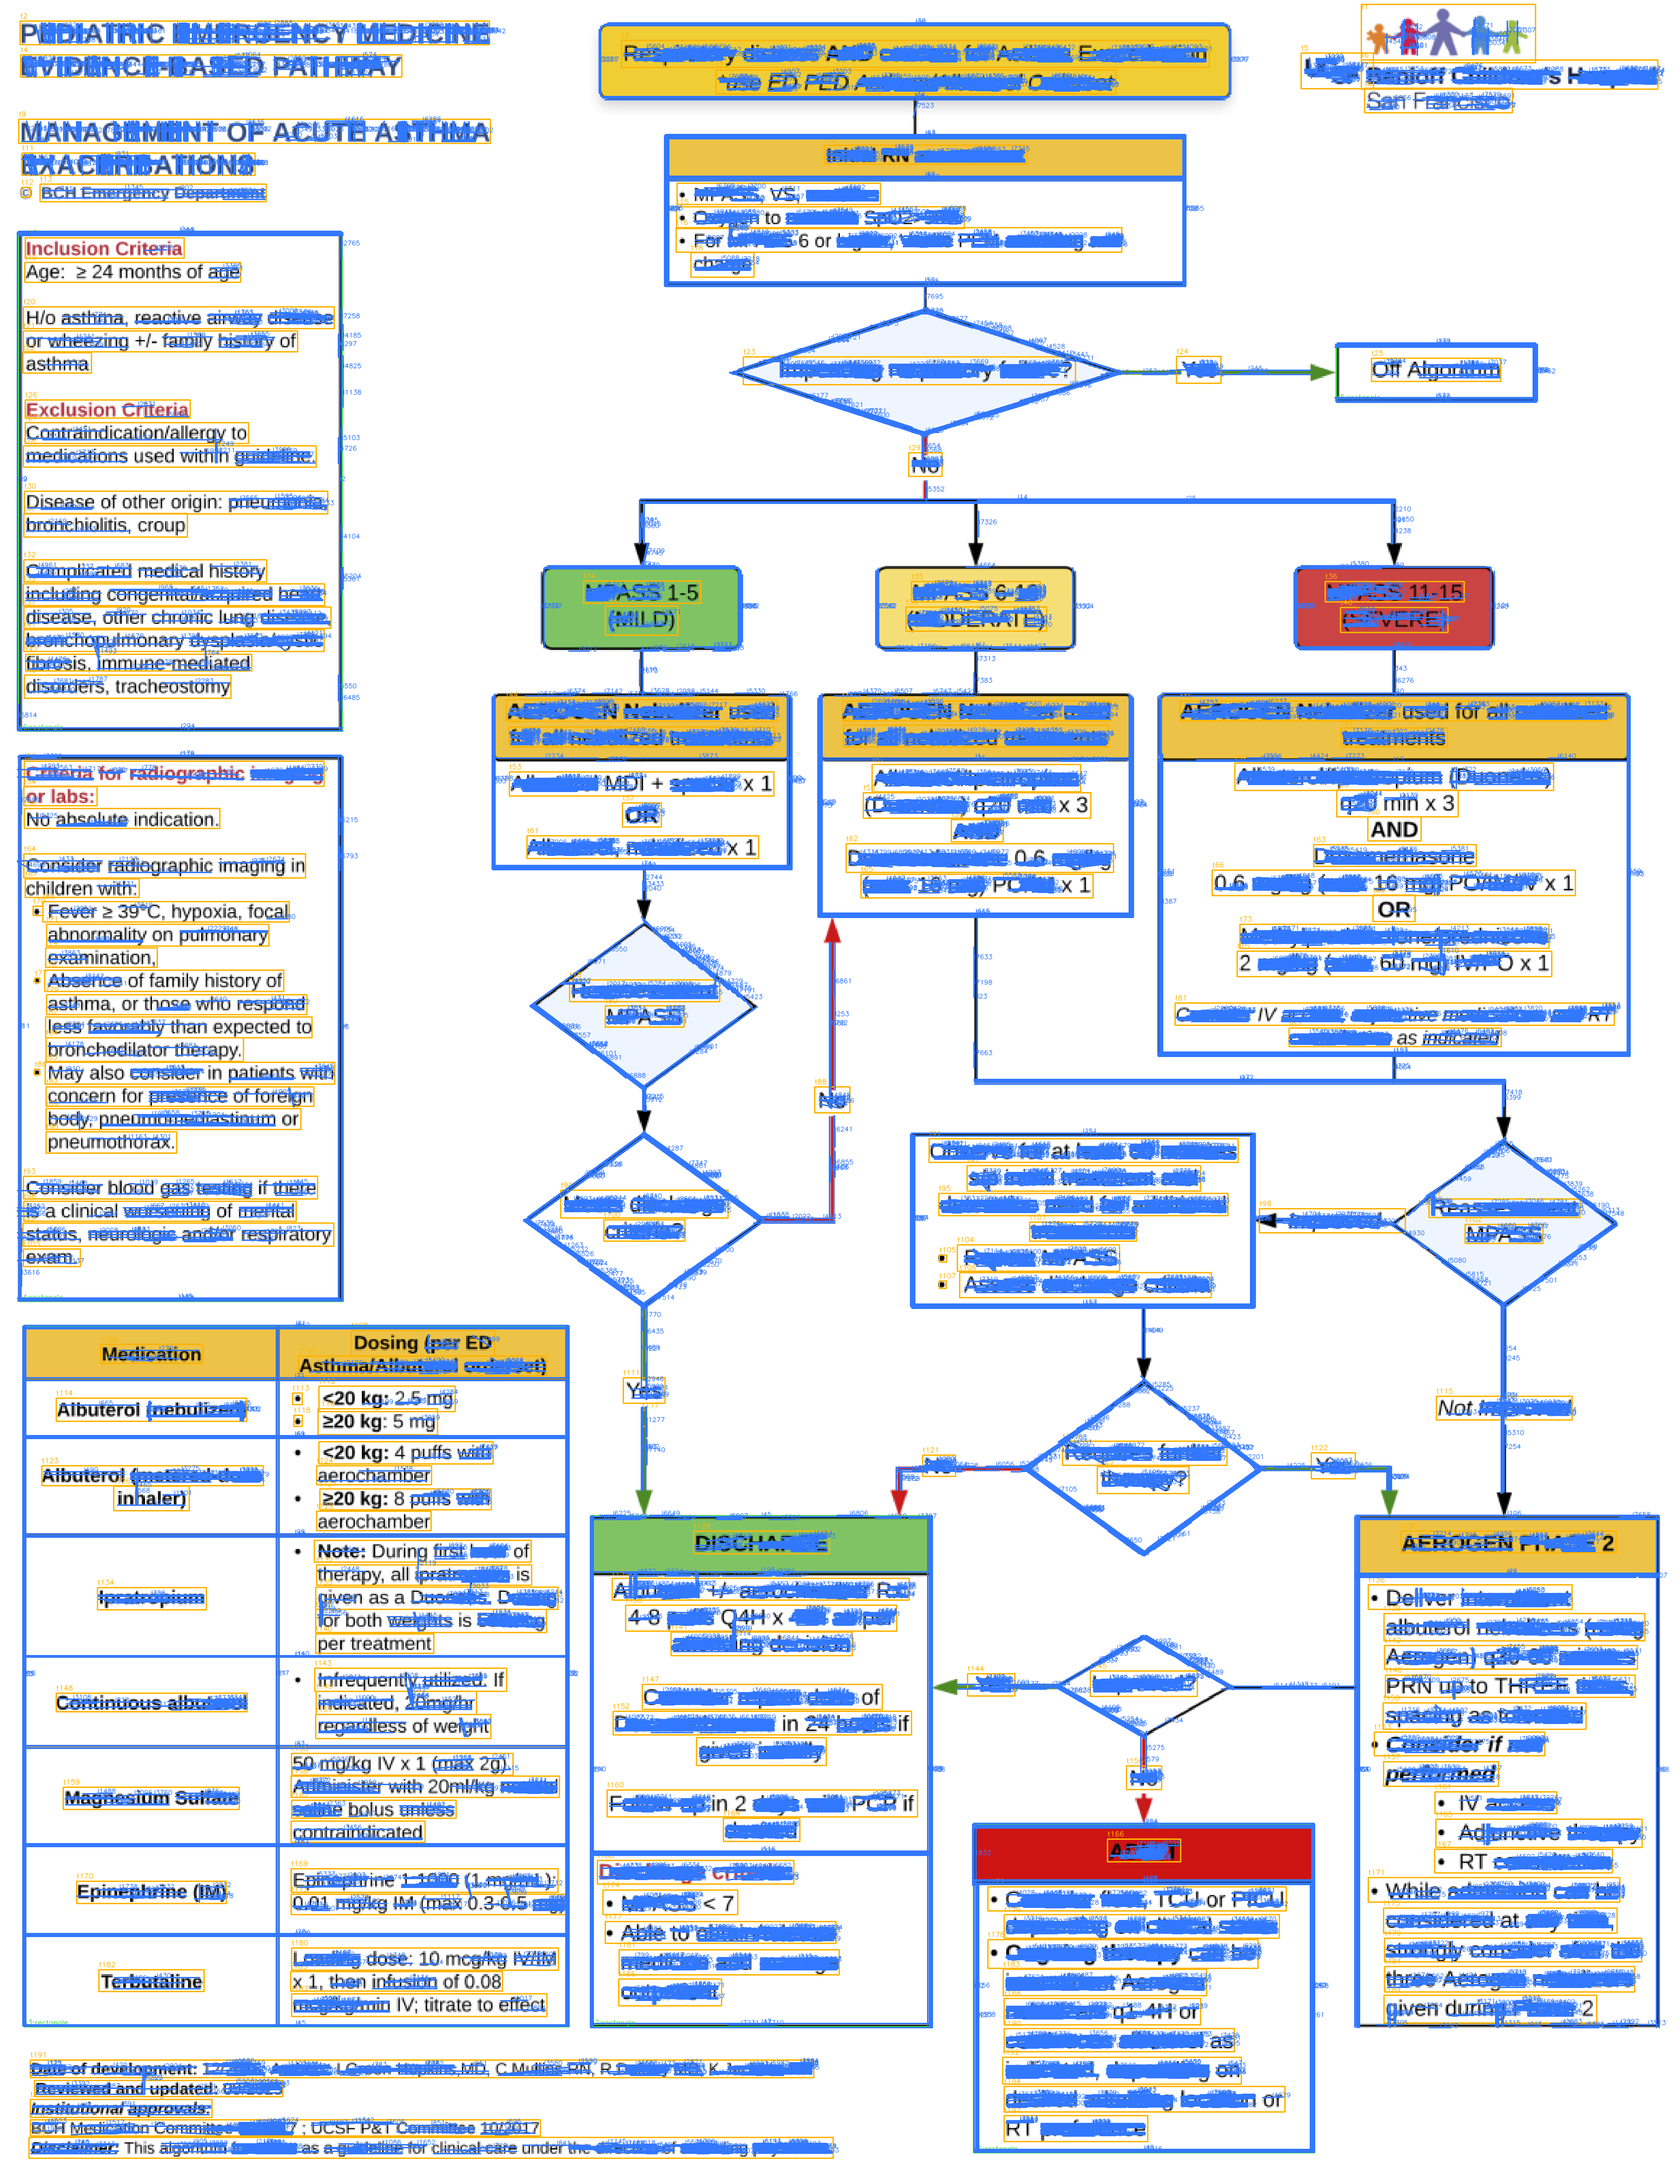
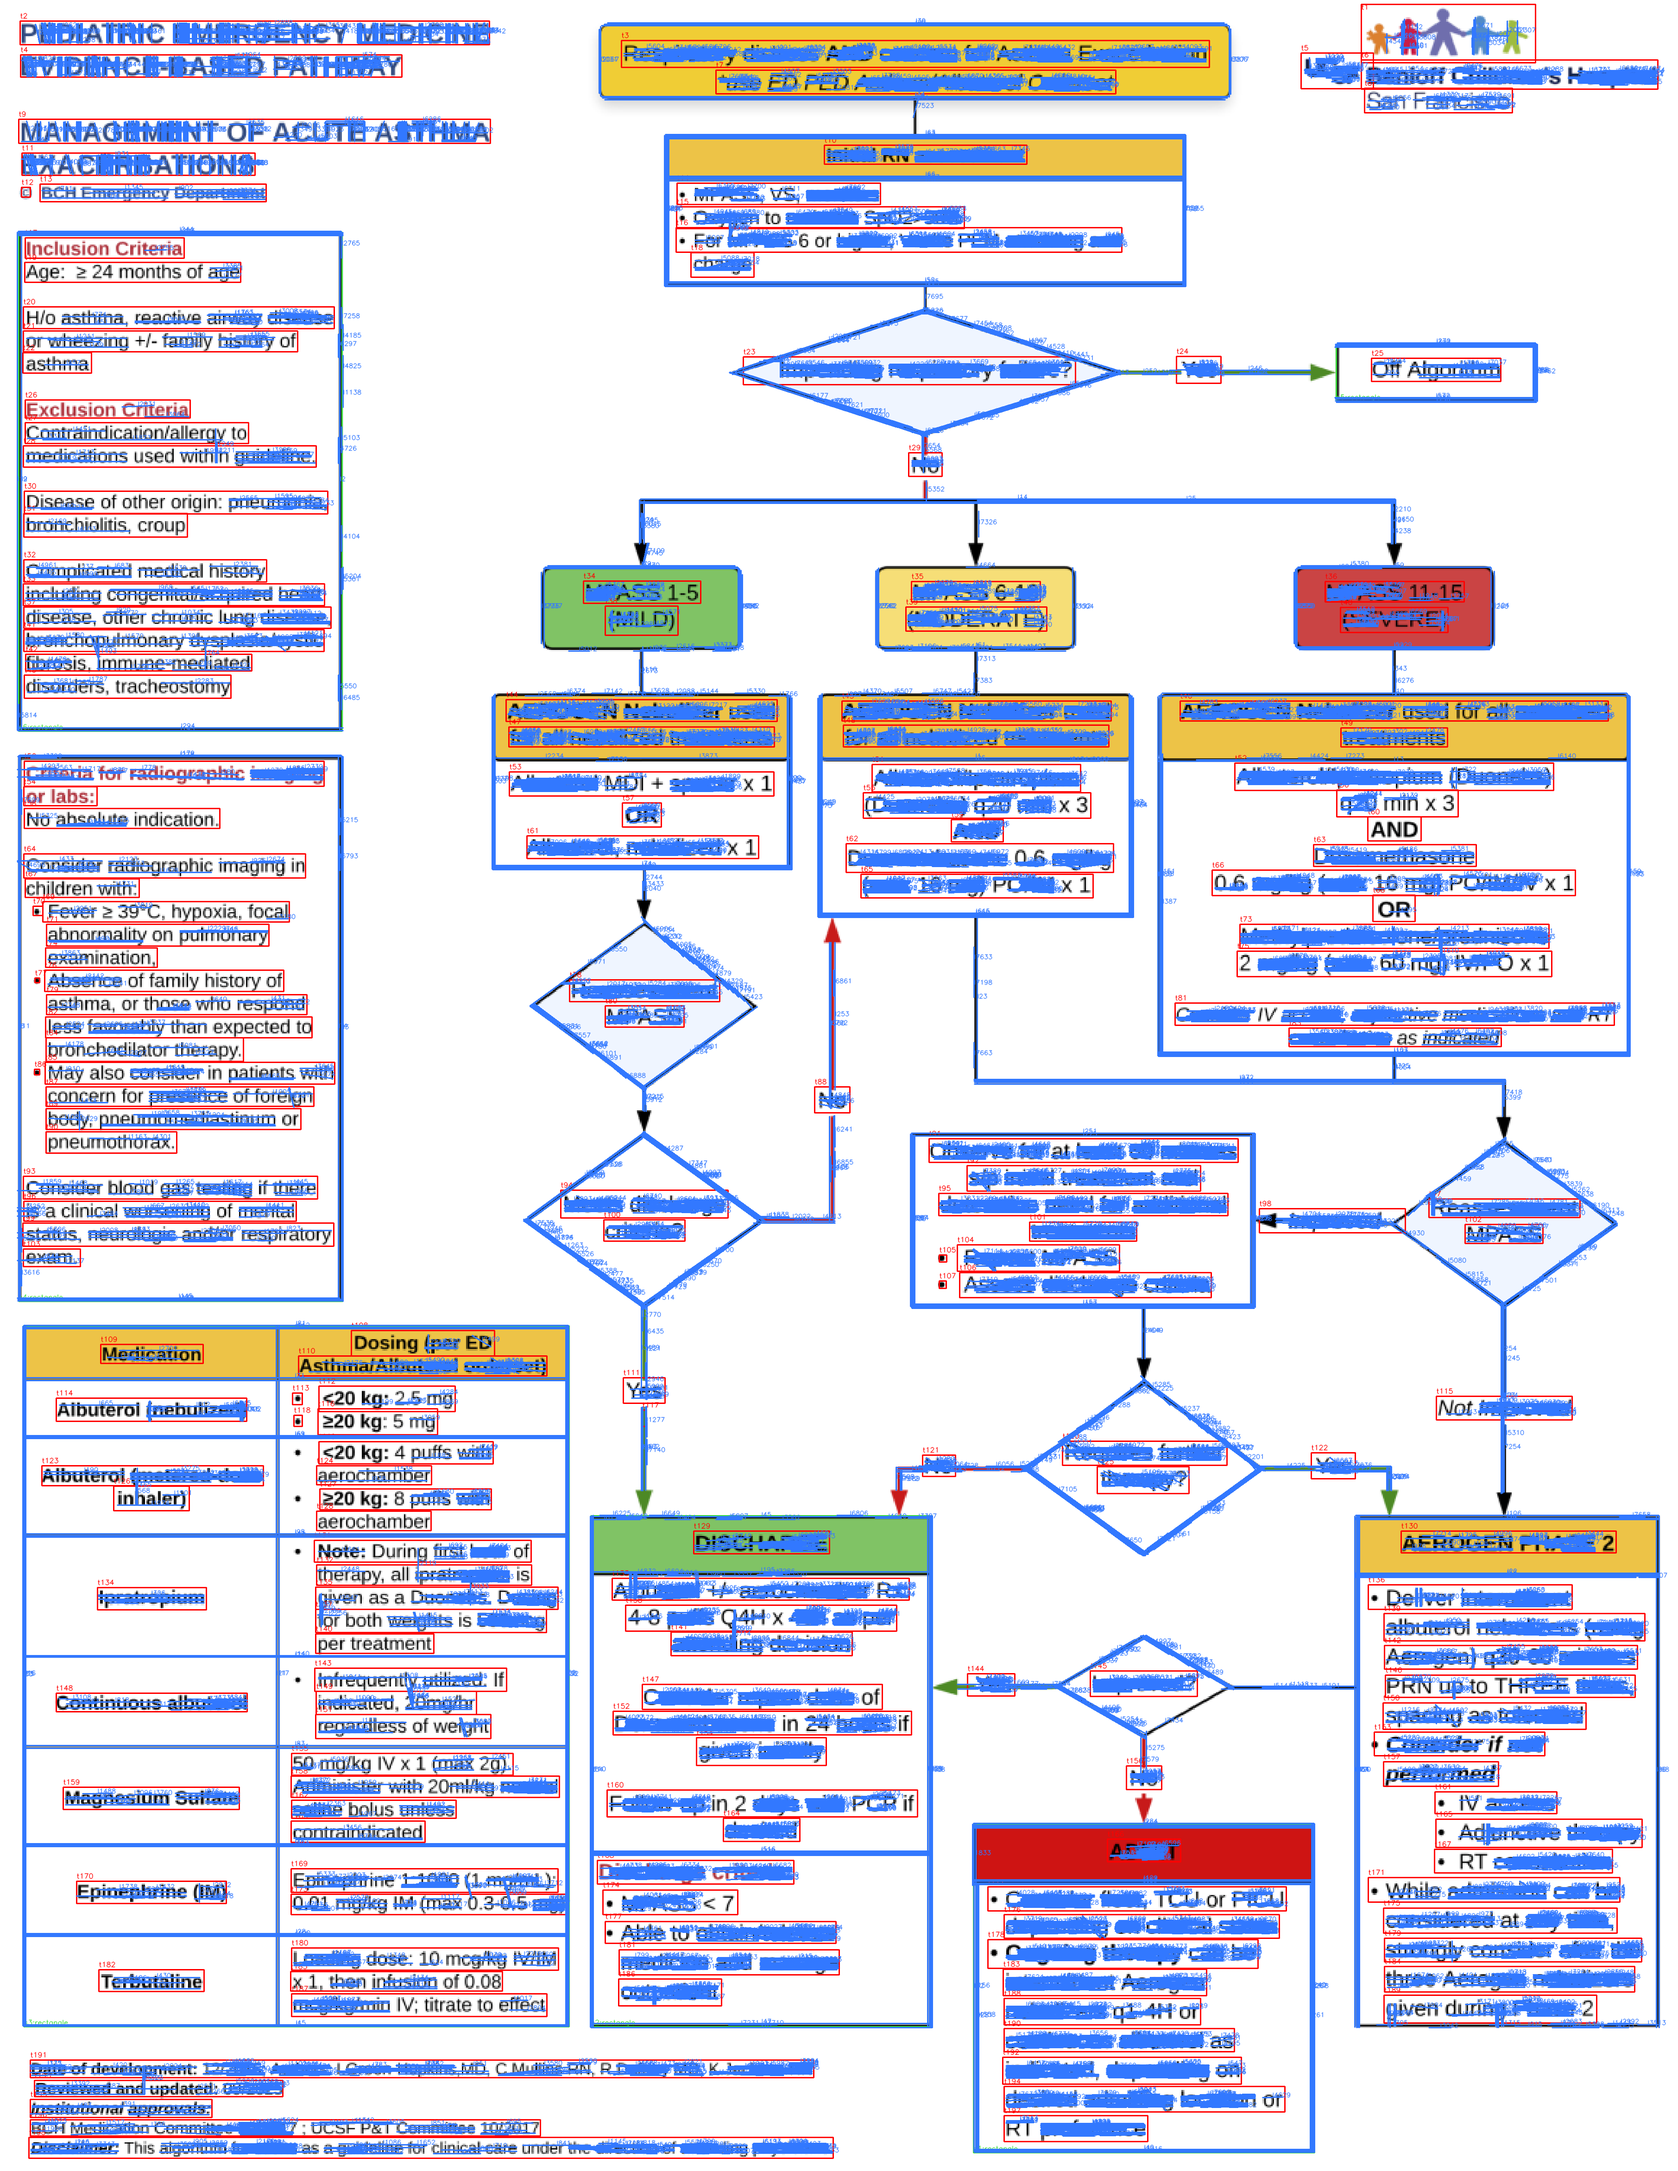
Update test_object_parser overlay

diff --git a/src/pathway_object_parser/visualize.py b/src/pathway_object_parser/visualize.py
@@ -26,30 +26,33 @@ def draw_overlay(image: np.ndarray, parsed: ParsedObjects) -> np.ndarray:
     """
     overlay = image.copy()
 
+    text_color = (0, 0, 255)
+    shape_color = (60, 220, 60)
+
     for block in parsed.text_blocks:
         x1, y1, x2, y2 = block.bbox
-        cv2.rectangle(overlay, (x1, y1), (x2, y2), (0, 180, 255), 2)
+        cv2.rectangle(overlay, (x1, y1), (x2, y2), text_color, 2)
         cv2.putText(
             overlay,
             block.id,
             (x1, max(20, y1 - 6)),
             cv2.FONT_HERSHEY_SIMPLEX,
             0.5,
-            (0, 180, 255),
+            text_color,
             1,
             cv2.LINE_AA,
         )
 
     for shape in parsed.shapes:
         x1, y1, x2, y2 = shape.bbox
-        cv2.rectangle(overlay, (x1, y1), (x2, y2), (60, 220, 60), 2)
+        cv2.rectangle(overlay, (x1, y1), (x2, y2), shape_color, 2)
         cv2.putText(
             overlay,
             f"{shape.id}:{shape.shape_type}",
             (x1, max(20, y2 - 4)),
             cv2.FONT_HERSHEY_SIMPLEX,
             0.5,
-            (60, 220, 60),
+            shape_color,
             1,
             cv2.LINE_AA,
         )
